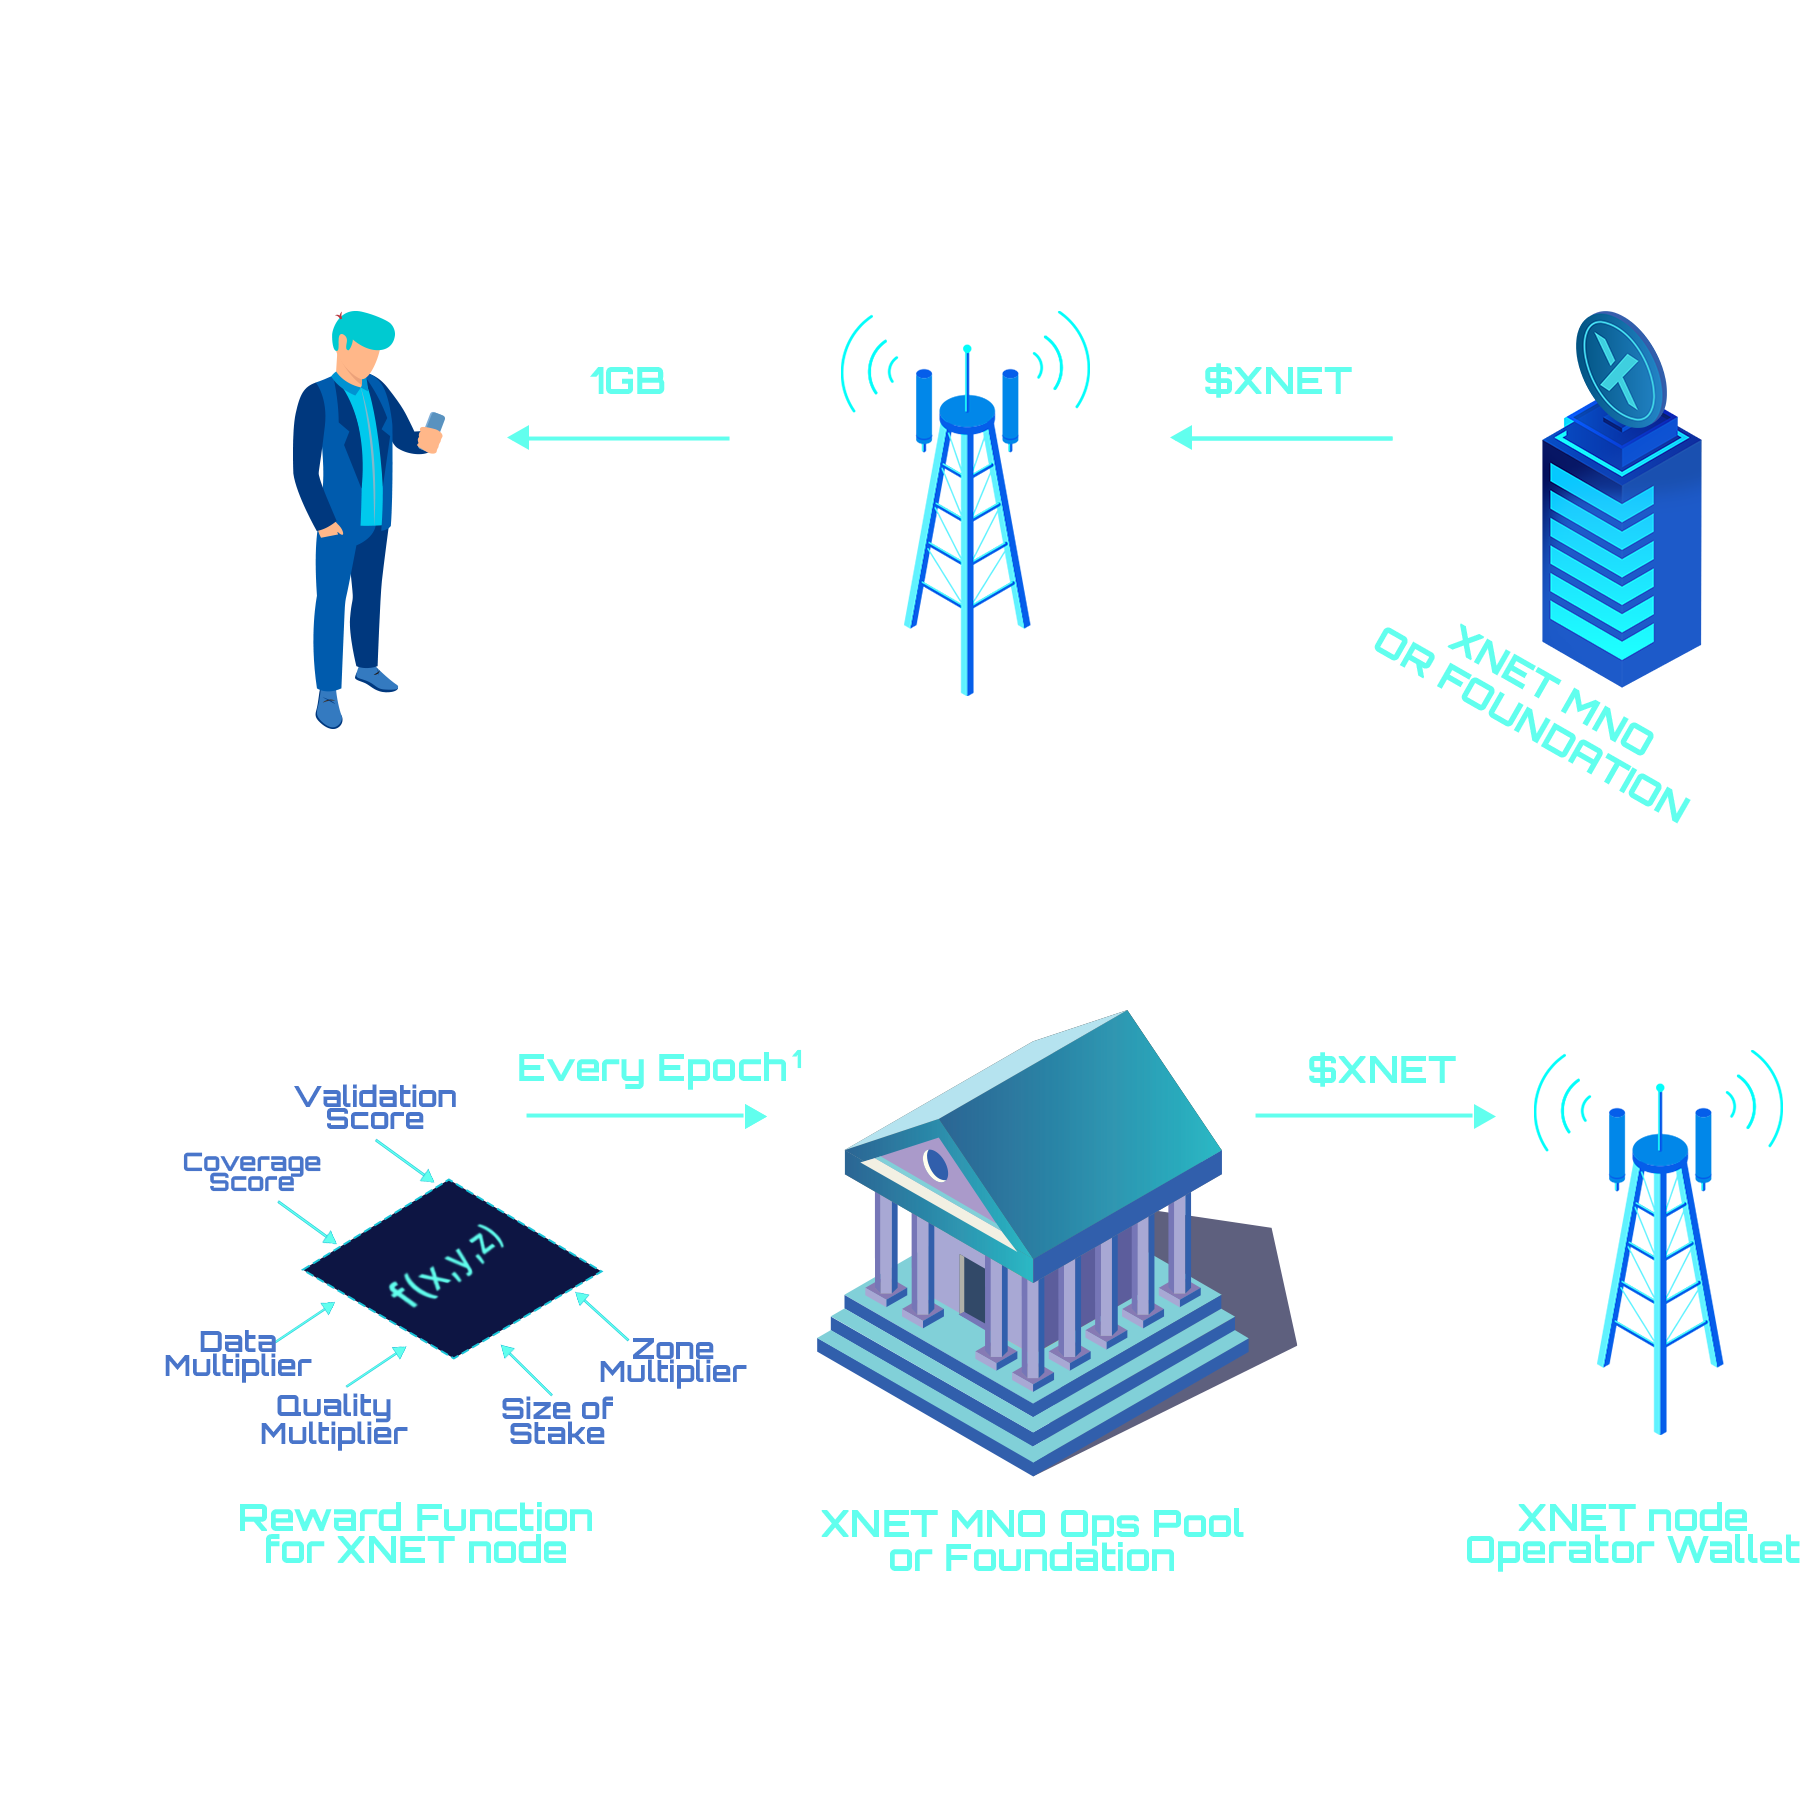
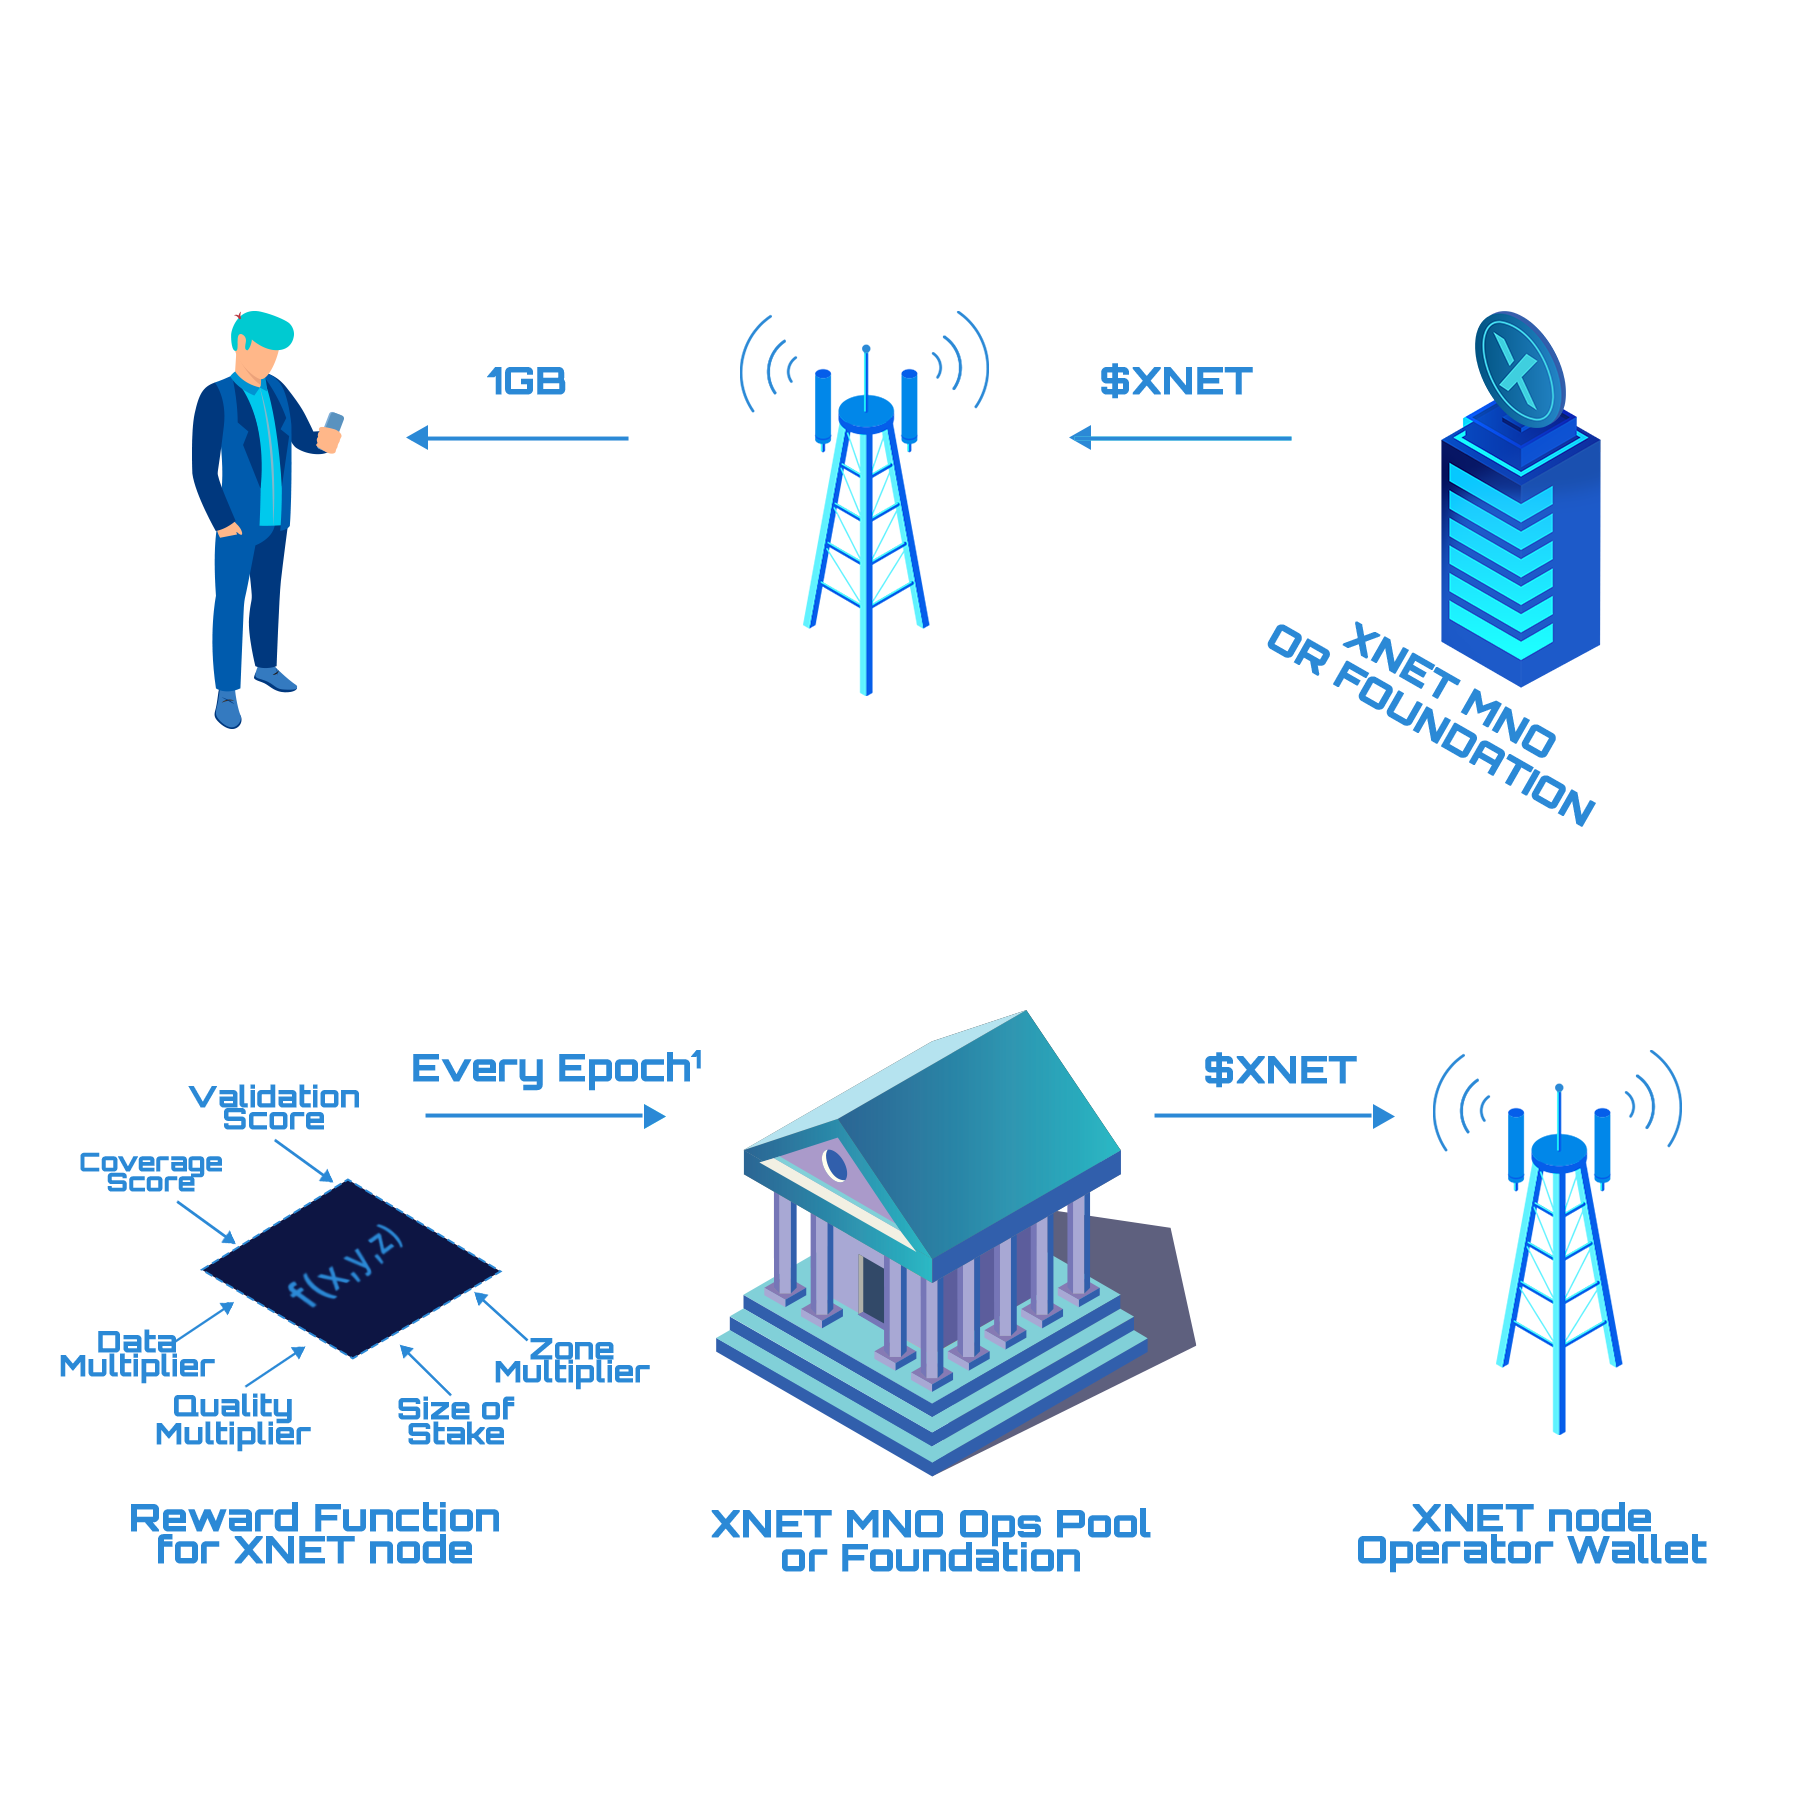
Update token graphics for readability

diff --git a/docs/token.md b/docs/token.md
@@ -26,12 +26,16 @@ Node operators, whether they be businesses or individuals, are who earn the `$XN
 <a href="/token/buyburn_2.png" data-fancybox="gallery">
       <img src="/token/buyburn_2.png" alt="Buy & Burn" width="600px">
     </a>
+    <br />
+  <span style="font-size: smaller; color: gray;">The core economic function of the XNET Network.</span>
 </p>
 
 <p style="text-align: center;">
 <a href="/token/economy_2.png" data-fancybox="gallery">
       <img src="/token/economy_2.png" alt="the XNET Economy" width="600px">
     </a>
+    <br />
+  <span style="font-size: smaller; color: gray;">Top: Traffic flows from XNET node to end user, with $XNET reward flowing from treasury to end user. Bottom: Several inputs go into determining $XNET rewards.</span>
 </p>
 
 ## Earning `$XNET`
@@ -45,6 +49,7 @@ Token distribution operates on the *XNET Epoch Schedule*. An Epoch is two weeks 
 <a href="/token/08_2024_wifi.png" data-fancybox="gallery">
       <img src="/token/08_2024_wifi.png" alt="Wi-Fi Earnings" width="600px">
     </a>
+    
 </p>
 
 <p style="text-align: center;">
